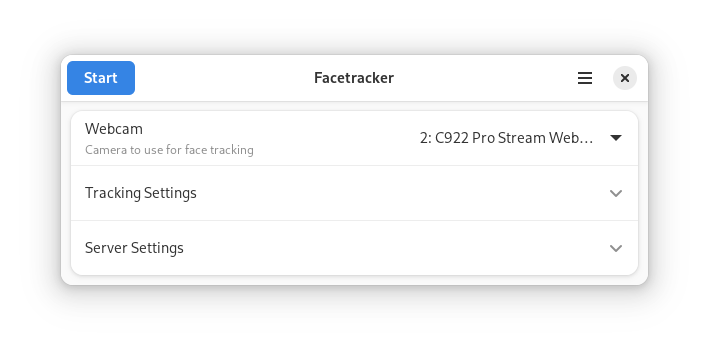
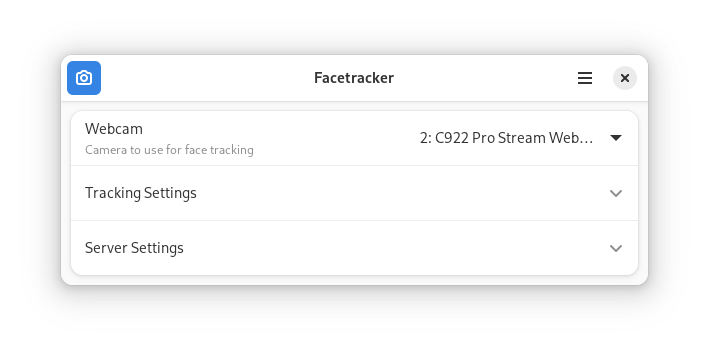
Update screenshots

Changed region(s): [[0.0931, 0.1562, 0.2172, 0.2812]]

diff --git a/README.md b/README.md
@@ -18,6 +18,7 @@ Simple wrapper UI for OpenSeeFace's facetracker.
 
 ![screenshot](https://raw.githubusercontent.com/Z-Ray-Entertainment/Facetracker/main/facetracker/data/screenshots/facetracker.png)
 ![screenshot](https://raw.githubusercontent.com/Z-Ray-Entertainment/Facetracker/main/facetracker/data/screenshots/facetracker_2.png)
+![screenshot](https://raw.githubusercontent.com/Z-Ray-Entertainment/Facetracker/main/facetracker/data/screenshots/facetracker_3.png)
 
 </div>
 
